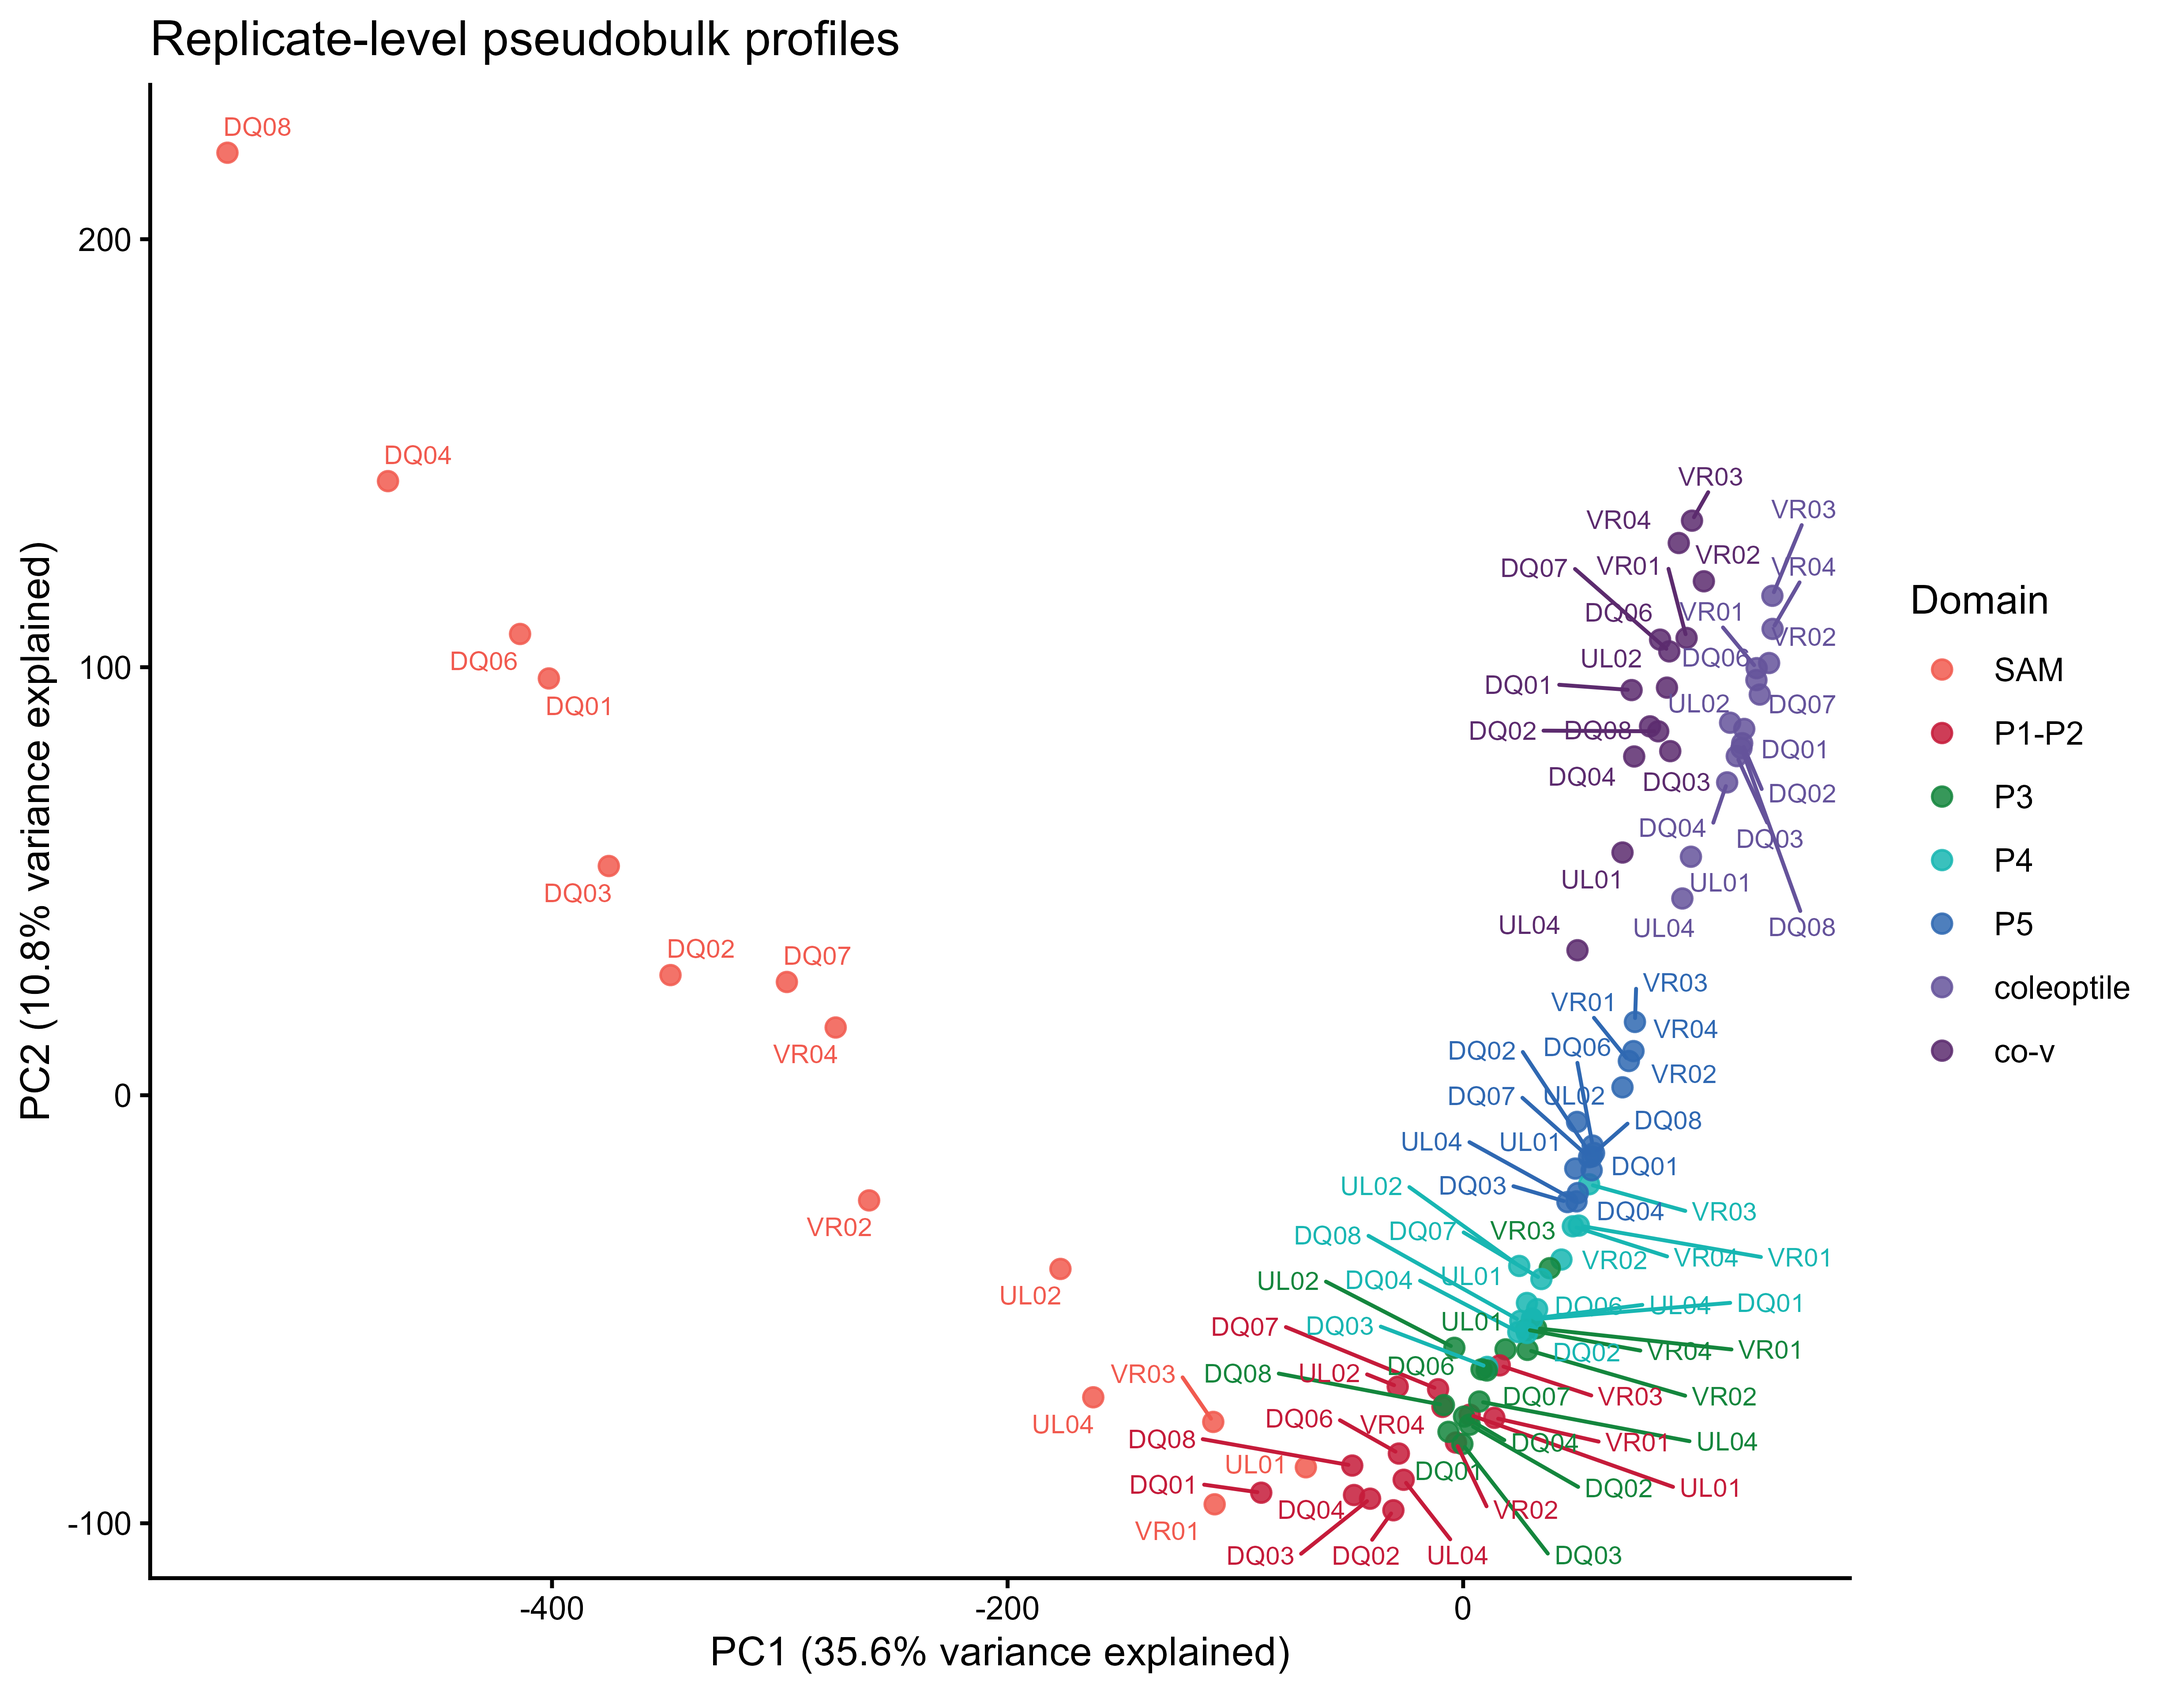
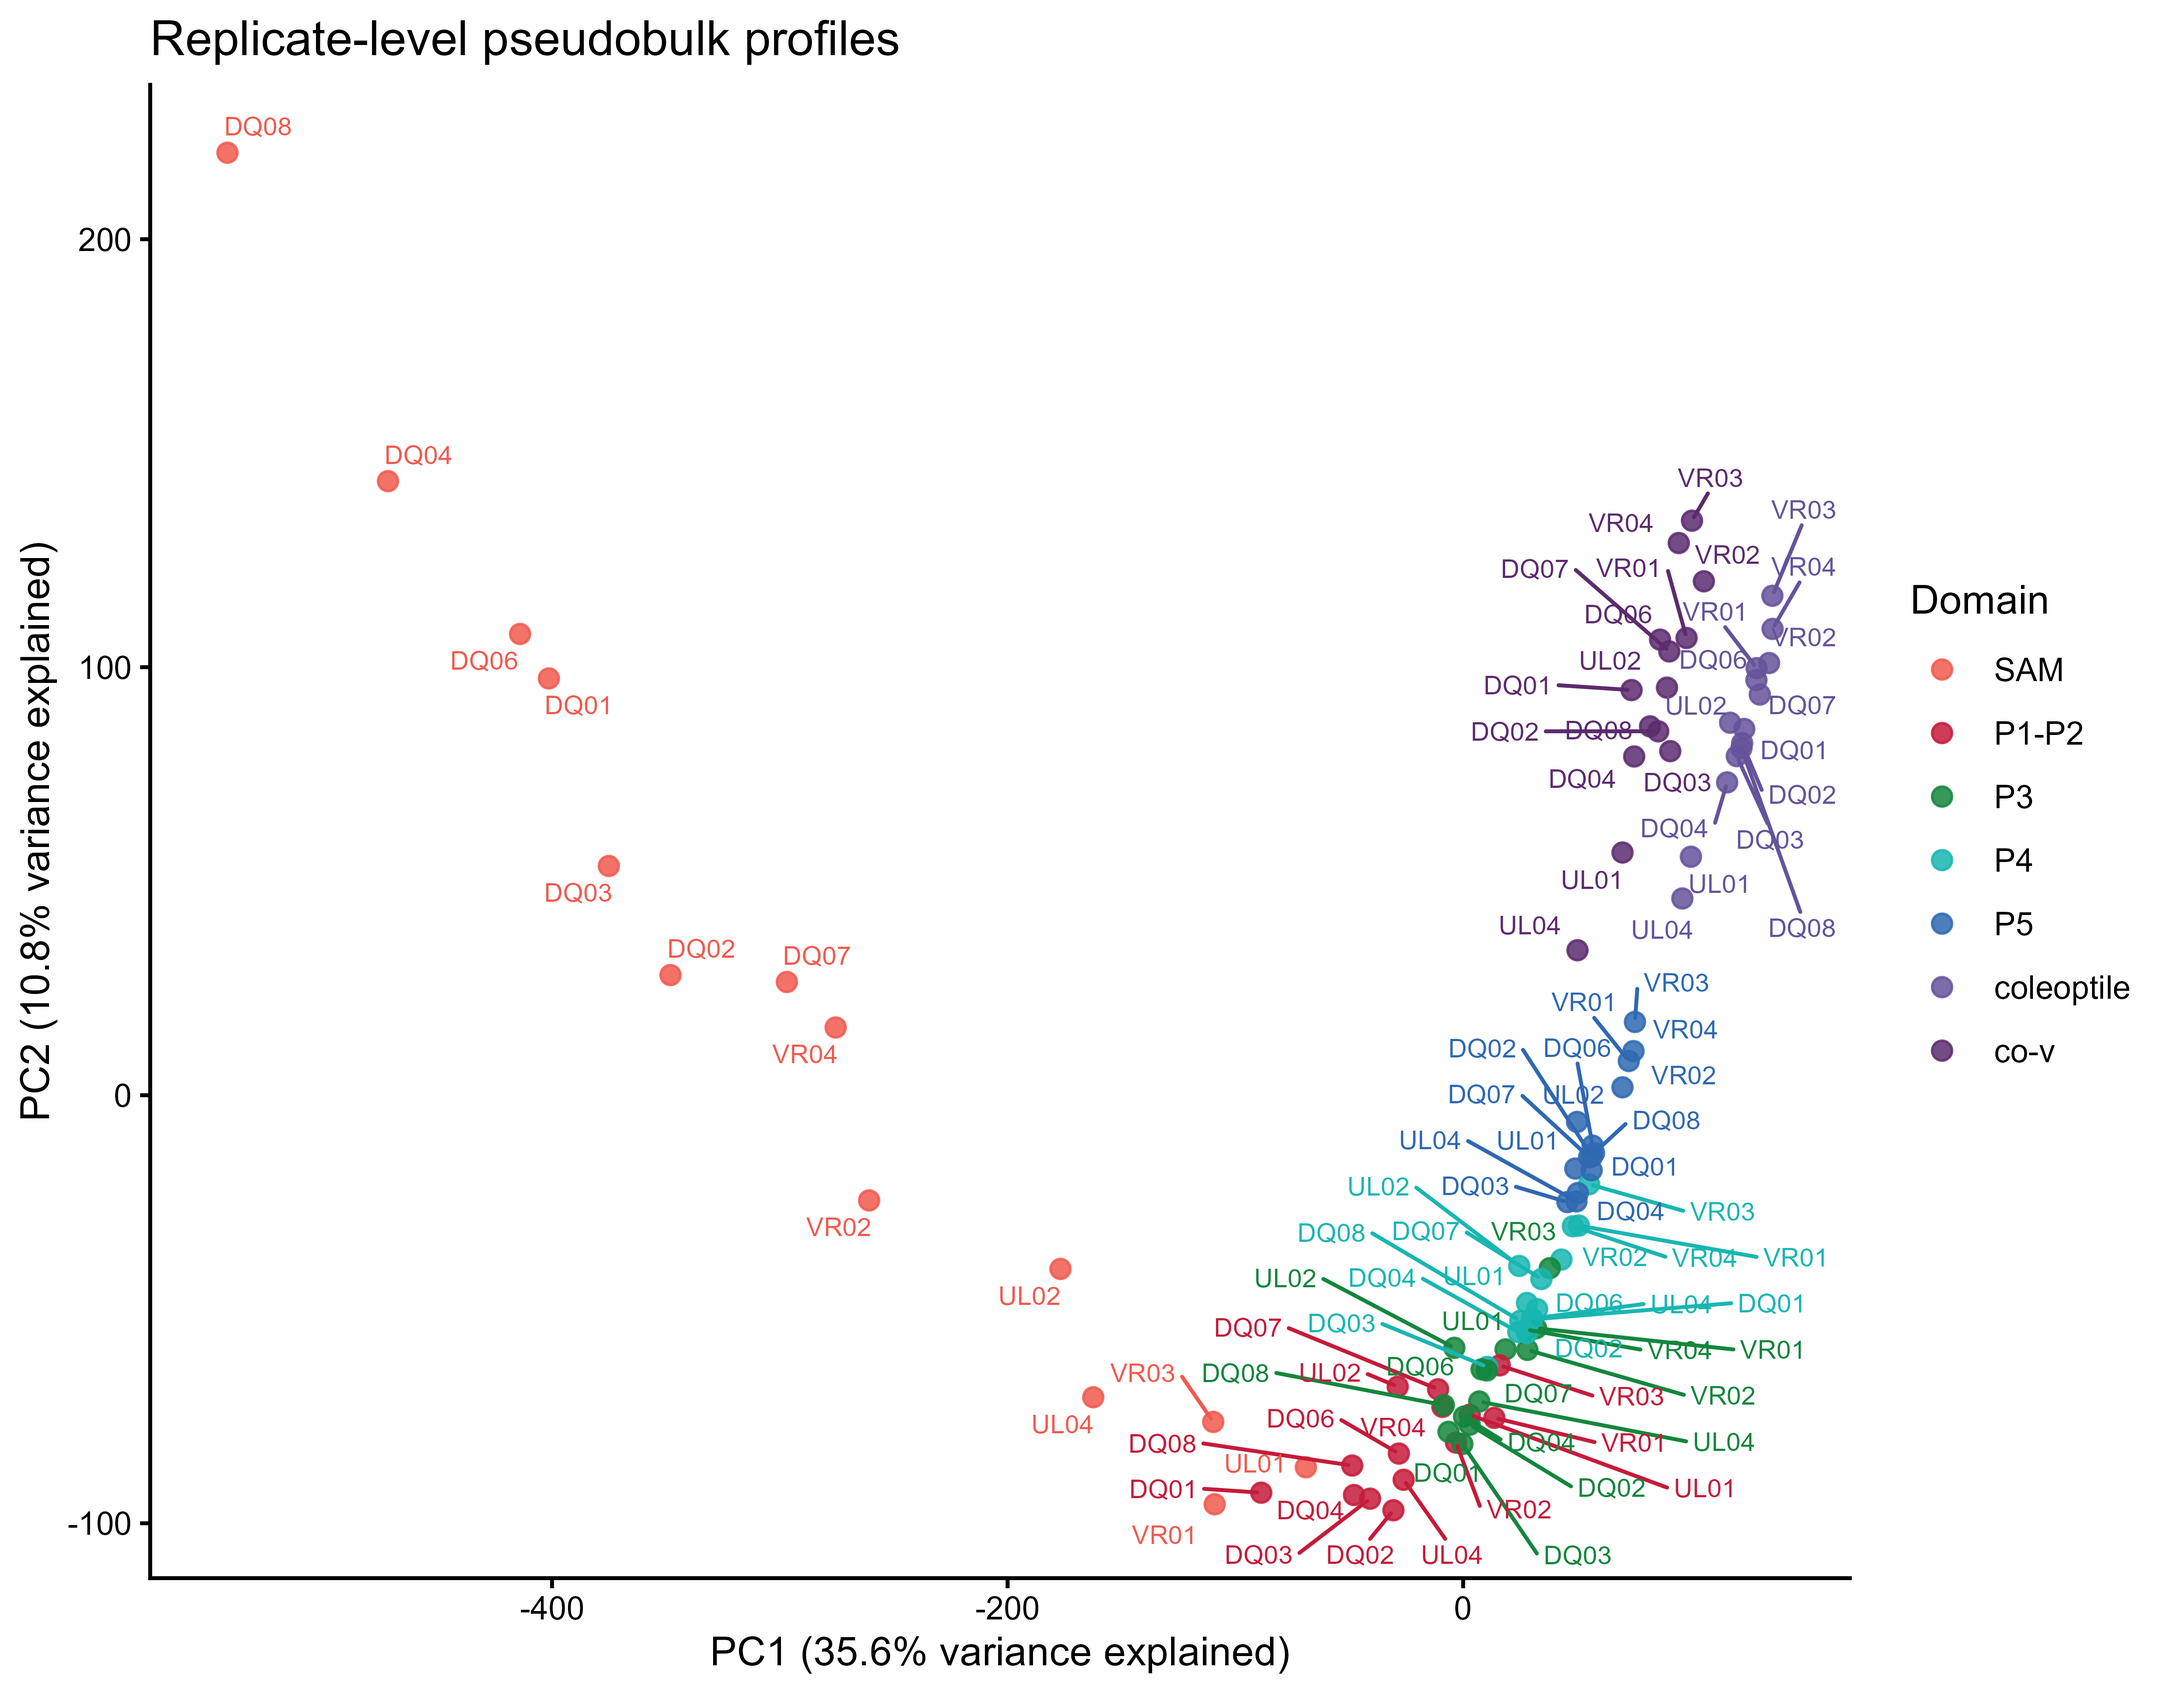
revise md files

diff --git a/README.md b/README.md
@@ -191,11 +191,13 @@ docs/             Human-readable Markdown and rendered HTML reports
 
 Available reports include:
 
-- [QC, SCTransform, Harmony integration, and clustering](docs/QC_SCT_Harmony_workflow.md)
-- [Seurat v5 maize spatial dataset](docs/Maize_data_Seurat_v5.md)
-- [Tissue supergroups and Figure 12](docs/Tissue_supergroups_Figure_12_Seurat_v5.md)
-- [Structural-domain pseudobulk analysis and Figure 13](docs/Pseudobulk_structural_domains_Figure_13.md)
-- [Developmental trends and GO enrichment](docs/Developmental_expression_trends_GO_Figure_14.md)
+- [02 — Load Space Ranger outputs](docs/02_Load_Space_Ranger_outputs.md)
+- [03 — Add spot metadata to Seurat v5 objects](docs/03_Add_spot_metadata_Seurat_v5.md)
+- [04 — QC, SCTransform, Harmony integration, and clustering](docs/04_QC_SCT_Harmony_workflow.md)
+- [04 — Seurat v5 maize spatial dataset](docs/04_Maize_data_Seurat_v5.md)
+- [05 — Tissue supergroups and Figure 12](docs/05_Tissue_supergroups_Figure_12_Seurat_v5.md)
+- [06 — Structural-domain pseudobulk analysis and Figure 13](docs/06_Pseudobulk_structural_domains_Figure_13.md)
+- [07 — Developmental trends and GO enrichment](docs/07_Developmental_expression_trends_GO_Figure_14.md)
 - [scRNA-seq reference QC and Harmony](docs/scRNA_reference_QC_and_Harmony.md)
 - [SCINA cell-type annotation](docs/scRNA_reference_SCINA_celltype_annotation.md)
 - [scRNA-to-Visium SPOTlight mapping](docs/scRNA_to_Visium_SPOTlight_mapping.md)

diff --git a/docs/03_Add_spot_metadata_Seurat_v5.md b/docs/03_Add_spot_metadata_Seurat_v5.md
@@ -1,0 +1,21 @@
+# 03. Add spot metadata to Seurat v5 objects
+
+These interactive RStudio scripts update a loaded Seurat object without creating a duplicate global object. The metadata CSV must contain `Barcode` in its first column and one or more metadata fields in the remaining columns.
+
+## Scripts
+
+- [`00_fix_SeuratObject_version_issue.R`](../scripts/R/03_add_metadata_seurat5/00_fix_SeuratObject_version_issue.R) updates older Seurat/Visium image objects when required.
+- [`01_add_spot_metadata_from_csv_delete_NA.R`](../scripts/R/03_add_metadata_seurat5/01_add_spot_metadata_from_csv_delete_NA.R) imports metadata and removes unmatched spots.
+- [`02_add_spot_metadata_from_csv_without_delete_NA.R`](../scripts/R/03_add_metadata_seurat5/02_add_spot_metadata_from_csv_without_delete_NA.R) imports metadata while retaining unmatched spots as `NA`.
+
+The scripts preserve the selected object name and verify that metadata import does not unexpectedly change the active identities.
+
+## Session information
+
+The script writes the full R session record to:
+
+[`03_add_metadata_seurat5_sessionInfo.txt`](../results/sessionInfo/03_add_metadata_seurat5_sessionInfo.txt)
+
+```r
+sessionInfo()
+```

diff --git a/docs/06_Pseudobulk_structural_domains_Figure_13.md b/docs/06_Pseudobulk_structural_domains_Figure_13.md
@@ -1,4 +1,4 @@
-# Pseudobulk profiles of maize shoot structural domains
+# 06. Pseudobulk profiles of maize shoot structural domains
 
 **Replicate-aware Seurat v5 and edgeR workflow for Figure 13**
 
@@ -256,8 +256,8 @@ results/
 │       ├── replicate_PCA_coordinates.csv
 │       ├── domain_mean_PCA_coordinates.csv
 │       └── spatial_domain_vs_scRNAseq_Spearman_correlations.csv (optional)
-└── logs/
-    └── Figure_13_sessionInfo.txt
+└── sessionInfo/
+    └── 06_pseudobulk_analysis_sessionInfo.txt
 ```
 
 The script verifies that adding and joining assay layers does not change the active Seurat identity. It does not save a duplicate copy of the integrated Seurat object.
@@ -266,7 +266,9 @@ The script verifies that adding and joining assay layers does not change the act
 
 ## Session information
 
-Run this command at the end of the analysis to record the R version, operating system, and loaded package versions:
+The script writes the full R session record to:
+
+[`06_pseudobulk_analysis_sessionInfo.txt`](../results/sessionInfo/06_pseudobulk_analysis_sessionInfo.txt)
 
 ```r
 sessionInfo()

diff --git a/docs/02_Load_Space_Ranger_outputs.md b/docs/02_Load_Space_Ranger_outputs.md
@@ -1,0 +1,20 @@
+# 02. Load Space Ranger outputs
+
+This workflow loads one Space Ranger capture-area output from `data/raw/<sample_id>/outs/` into either STUtility or Seurat v5. Enter `sample_id` manually in the selected script and run it from the repository root.
+
+## Scripts
+
+- [`01_load_single_sample_stutility.R`](../scripts/R/02_load_spaceranger/01_load_single_sample_stutility.R)
+- [`02_load_single_sample_Seurat_v5.R`](../scripts/R/02_load_spaceranger/02_load_single_sample_Seurat_v5.R)
+
+The STUtility route saves `data/processed/<sample_id>_stutility.rds`. The Seurat v5 route saves `data/processed/<sample_id>_seurat_v5.rds` with `sample_id` and `orig.ident` recorded in the metadata.
+
+## Session information
+
+The script writes the full R session record to:
+
+[`02_load_spaceranger_sessionInfo.txt`](../results/sessionInfo/02_load_spaceranger_sessionInfo.txt)
+
+```r
+sessionInfo()
+```

diff --git a/docs/04_QC_SCT_Harmony_workflow.md b/docs/04_QC_SCT_Harmony_workflow.md
@@ -1,4 +1,4 @@
-# Quality control, SCTransform, PCA, Harmony integration, and clustering
+# 04. Quality control, SCTransform, PCA, Harmony integration, and clustering
 
 This workflow reproduces the quality-control and integration steps described in the Bio-protocol manuscript for the 14 maize shoot Visium capture areas:
 
@@ -338,7 +338,9 @@ The object retains `RNA` and `SCT` assays, the 14 sample identities, and the org
 
 ## Session information
 
-Run this command at the end of the analysis to record the R version, operating system, and loaded package versions:
+The script writes the full R session record to:
+
+[`04_merge_integration_sessionInfo.txt`](../results/sessionInfo/04_merge_integration_sessionInfo.txt)
 
 ```r
 sessionInfo()

diff --git a/docs/05_Tissue_supergroups_Figure_12_Seurat_v5.md b/docs/05_Tissue_supergroups_Figure_12_Seurat_v5.md
@@ -1,4 +1,4 @@
-# Maize shoot tissue-supergroup annotation and Figure 12
+# 05. Maize shoot tissue-supergroup annotation and Figure 12
 
 **Seurat v5 workflow for marker review, anatomical cluster annotation, and spatial visualization**
 
@@ -325,7 +325,9 @@ The tested workflow assigned all **20,090 spots** from all **33 clusters** witho
 
 ## Session information
 
-Run this command at the end of the analysis to record the R version, operating system, and loaded package versions:
+The script writes the full R session record to:
+
+[`05_marker_analysis_sessionInfo.txt`](../results/sessionInfo/05_marker_analysis_sessionInfo.txt)
 
 ```r
 sessionInfo()

diff --git a/docs/04_Maize_data_Seurat_v5.md b/docs/04_Maize_data_Seurat_v5.md
@@ -1,4 +1,4 @@
-# Maize shoot spatial transcriptomics: QC and Harmony integration
+# 04. Maize shoot spatial transcriptomics: QC and Harmony integration
 
 **Seurat v5 reproducible walkthrough for 14 maize shoot Visium datasets**
 
@@ -636,7 +636,9 @@ Reference tutorial: [Maize embryonic leaf analysis and z-stack](https://ludvigla
 
 ## Session information
 
-Run this command at the end of the analysis to record the R version, operating system, and loaded package versions:
+The script writes the full R session record to:
+
+[`04_merge_integration_sessionInfo.txt`](../results/sessionInfo/04_merge_integration_sessionInfo.txt)
 
 ```r
 sessionInfo()

diff --git a/docs/07_Developmental_expression_trends_GO_Figure_14.md b/docs/07_Developmental_expression_trends_GO_Figure_14.md
@@ -1,4 +1,4 @@
-# Developmental expression trends and GO enrichment
+# 07. Developmental expression trends and GO enrichment
 
 This workflow reconstructs Figure 14 from the revised Seurat v5 dataset. It orders the seven structural domains as:
 
